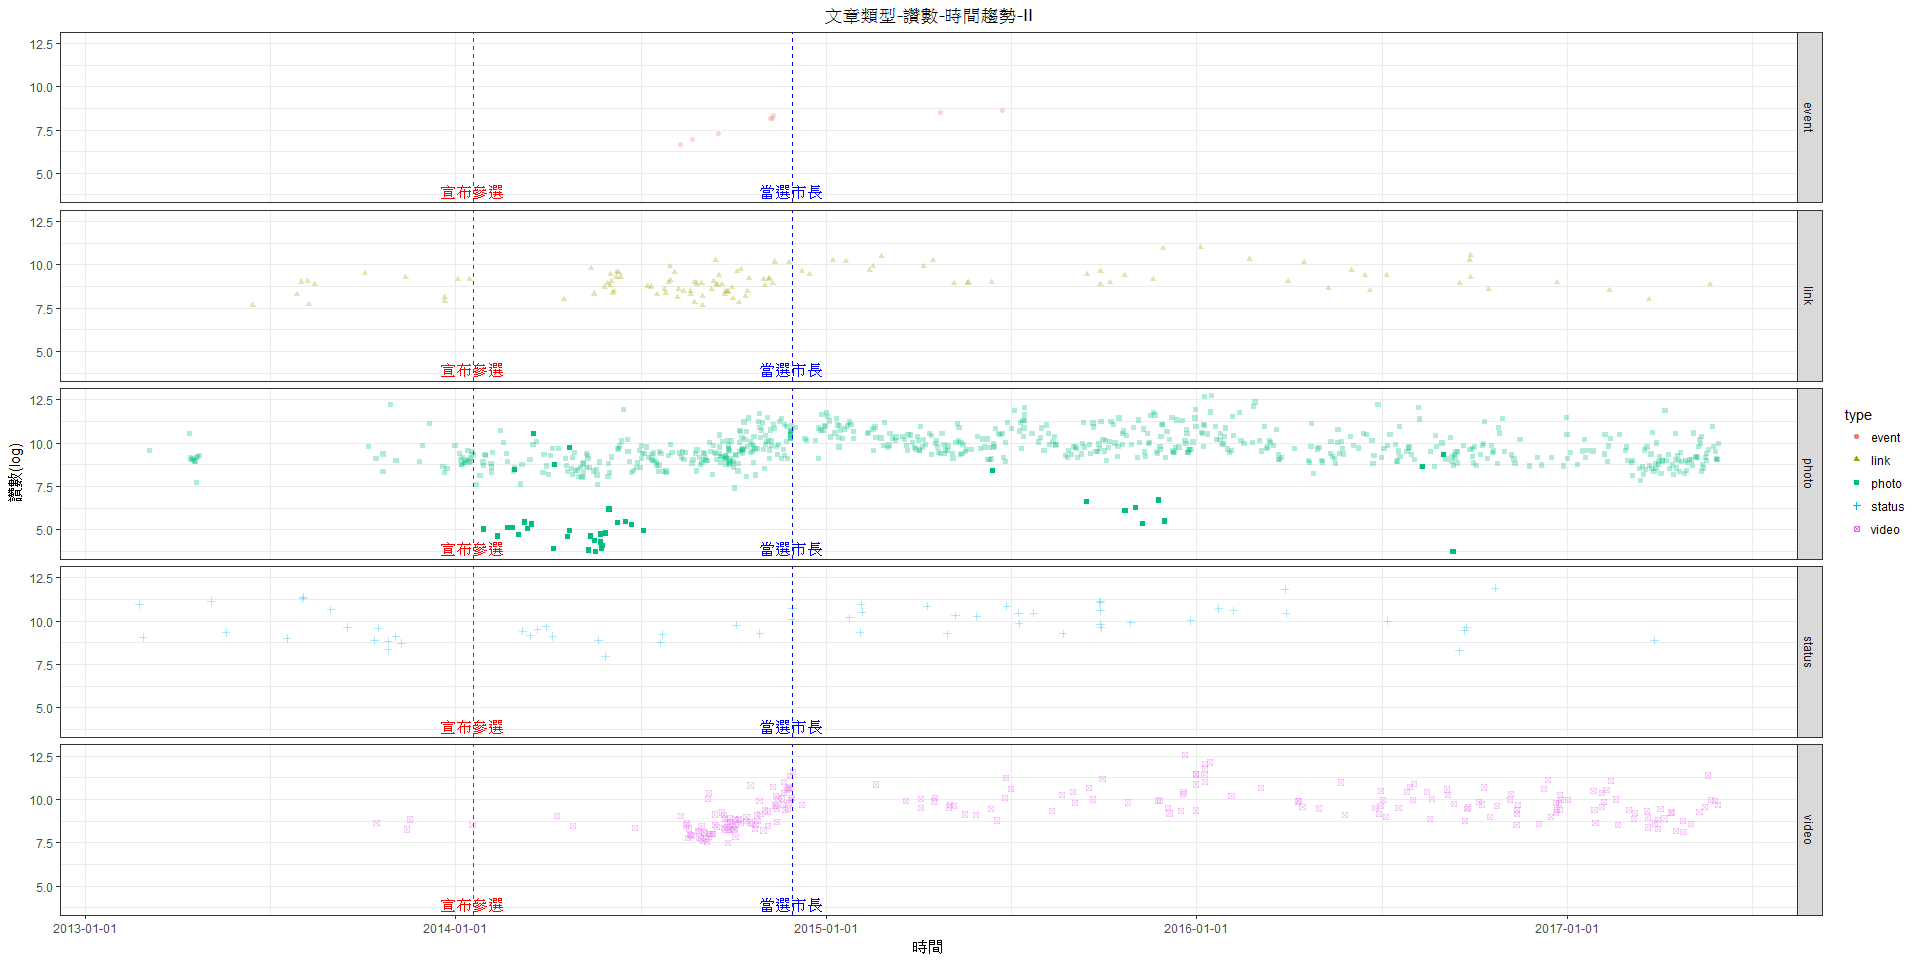
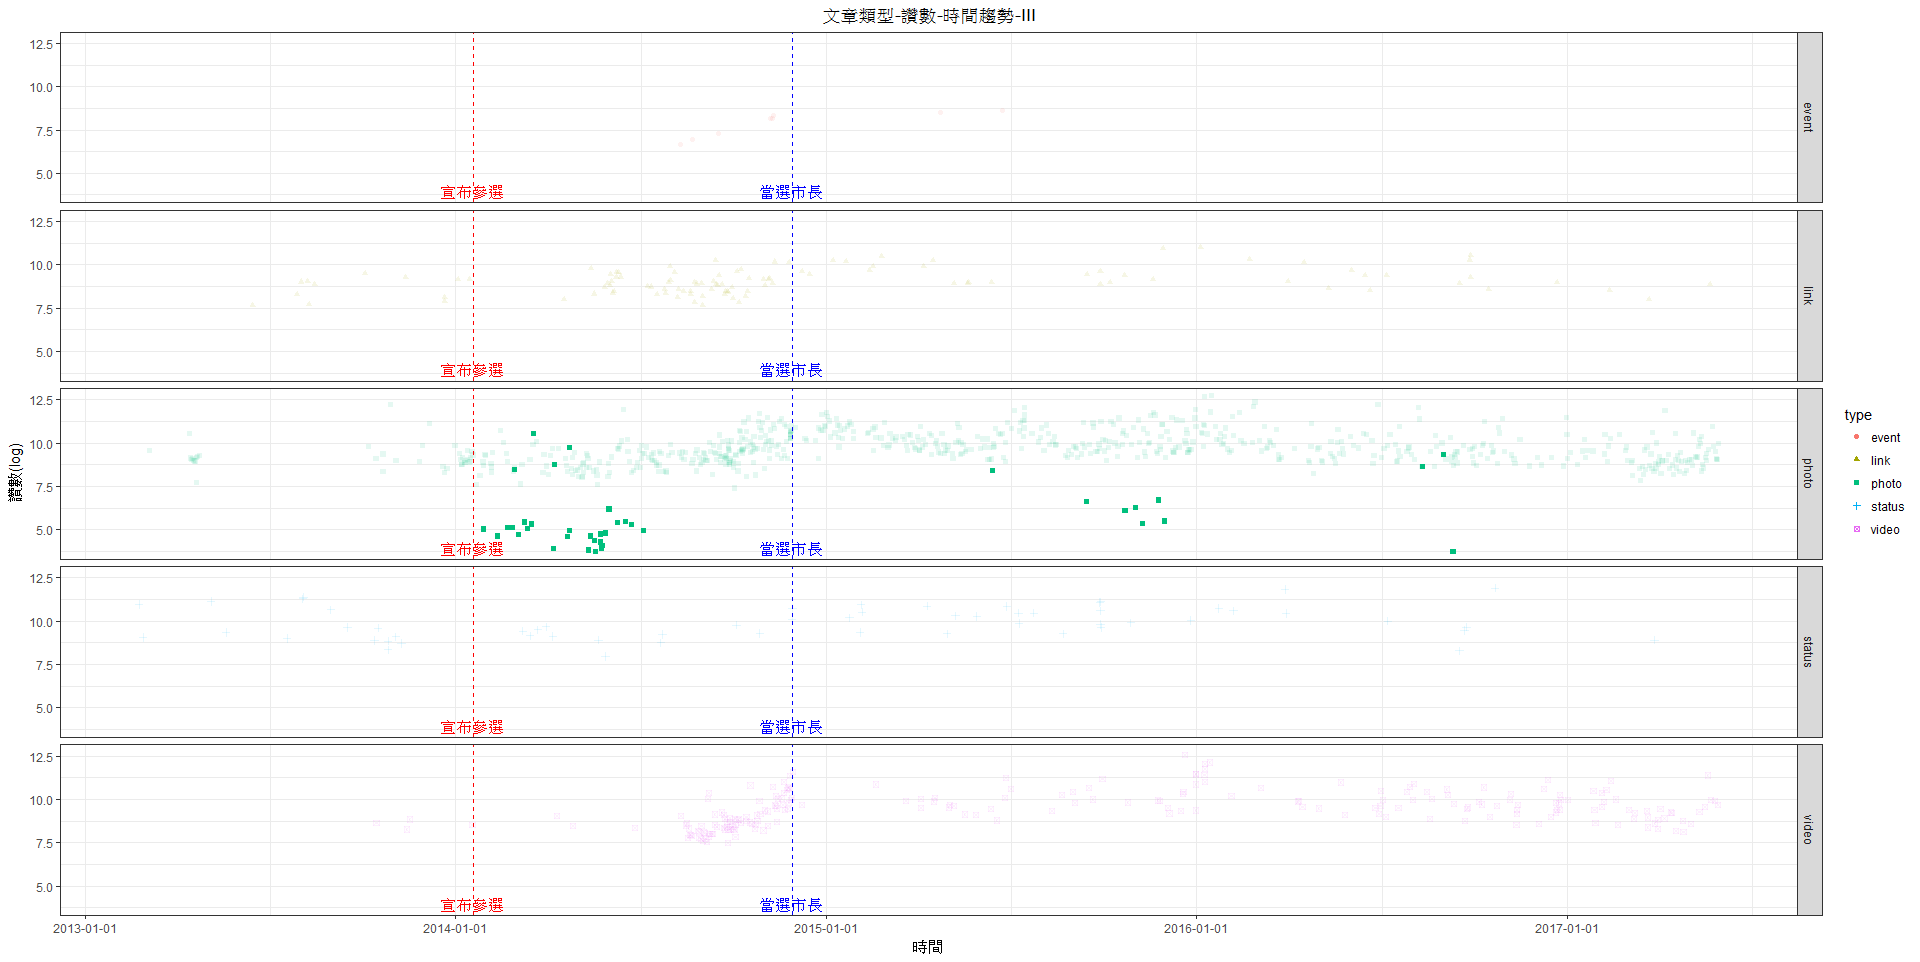
update

diff --git a/KoWJ_analysis.md b/KoWJ_analysis.md
@@ -11,8 +11,9 @@
 *Rfacebook, dplyr, lubridate, ggplot2, scales, gridExtra*  
 
 
-　　ex.若在擷取資料上有遇到困難無法處理或暫時不考慮申請FBAPI帳號的，可直接點選下面連結到data資料夾中下載檔案
-[資料夾連結點我](https://github.com/tan800630/FBapi_analysis/blob/master/data)
+　ex.若在擷取資料上有遇到困難無法處理或暫時不考慮申請FBAPI帳號的，可直接點選下面連結到data資料夾中下載檔案　　
+
+　[資料夾連結點我](https://github.com/tan800630/FBapi_analysis/blob/master/data)
 
 -------------------------------------------------
 -------------------------------------------------
@@ -105,13 +106,15 @@ hist(dat$shares_count,main="分享人數分配",xlab="分享人數")
 ![圖一](https://raw.githubusercontent.com/tan800630/FBapi_analysis/master/pic/hist_distribution.png)
 
 
-看起來不是非常開心，若後續想要對這些變項作圖的話多數狀況下會因為極端值拉大座標軸的最大值而不好做判斷   
+看起來不是非常開心，  
+若後續想要對這些變項作圖的話多數狀況下會因為極端值拉大座標軸的最大值而不好做判斷   
   
   
 
 ![圖二](https://raw.githubusercontent.com/tan800630/FBapi_analysis/master/pic/hist_dist_log.png)
  
-取log轉換後的資料分配如下圖，可愛多了 
+取log轉換後的資料分配如上圖，可愛多了  
+
 
 後續的資料呈現由於不希望數值都擠在一起，因此將採用log轉換數值，並在座標軸上特別做出標記，請各位特別注意。   
 整理完資料後，就可以來分析了。  
@@ -161,7 +164,7 @@ grid.arrange(plot1,plot2,plot3,nrow=1,ncol=3)
 ```
 
 ![圖四](https://raw.githubusercontent.com/tan800630/FBapi_analysis/master/pic/ggplot_like_comment_share_xyplot.png)
-*請放大服用*  
+*建議點選圖片放大服用*  
 
   
 上圖呈現按讚-回應-分享人數(log)兩兩配對的x-y plot，另外也以不同顏色和形狀表示不同的文章類型，可以看到按讚與回應的人數有非常高的線性正相關，另外分享與其他兩個指標也有正向的關聯，然而三張圖左下角都有一小群的離群值，在此先留意一下。  
@@ -171,12 +174,13 @@ grid.arrange(plot1,plot2,plot3,nrow=1,ncol=3)
 ## 時間趨勢 ##
 
 另外，我們當然也有興趣了解柯的人氣(受關注)狀況  
-*(按讚/回應/分享人次都是能夠反映受到關注的指標，由於按讚-回應-分享彼此之間有不錯的正相關，這邊即只取按讚人數作為反映受到關注的指標)*  
+(按讚/回應/分享人次都是能夠反映受到關注的指標，由於按讚-回應-分享彼此之間有不錯的正相關，這邊即只取按讚人數作為反映受到關注的指標)  
+
 然而除了直接計算粉絲專頁文章的平均按讚人數，我們更有興趣的是，**此指標是否隨著時間有明顯的上升/下降趨勢**  
 　  
   
 > 特別注意!! 此分析以粉絲專頁中的資料進行分析，與民調之資料來源(特定社群網頁v.s.電話抽樣)以及指標(按讚人數v.s.明確詢問"滿意度")皆有差異，在推論時要特別注意，盡量避免偏誤。   
-　  
+
 
 相關新聞(2016/09/01)：[TVBS：民調／市政爭議不斷！柯P滿意度僅剩36%](http://news.tvbs.com.tw/politics/671861)   
 相關連結：[台北市長柯文哲滿意度追蹤](http://tsjh301.blogspot.tw/2016/07/2016-taipei-mayor-satisfaction.html)  
@@ -199,7 +203,7 @@ scale_x_datetime(labels = date_format("%Y-%m-%d"))
 ```
 
 ![圖五](https://raw.githubusercontent.com/tan800630/FBapi_analysis/master/pic/ggplot_like_type_trend.png)
-*請放大服用*  
+*建議點選圖片放大服用*  
 
 
 上圖將不同類型的文章分成不同的圖，並且畫出2013年到今年5月份每一篇文的發文時間點與按讚人數(log)之間的關係，另外也將兩個比較特殊的時間點在圖上標記出來(年-月-日)，以供參考。  
@@ -212,7 +216,8 @@ scale_x_datetime(labels = date_format("%Y-%m-%d"))
 　  
  - 2015年底至2016年初則有另一個按讚人數的高峰，且是目前為止的最高點，除了本身人氣之外，這個時間點亦恰好為跨年(柯登台表演!?)、柯P一日北高雙城、以及總統大選前的黃金時刻，因此受到關注的程度非常高。  
 　  
-  
+　 
+　   
 接著試著來回答大家蠻有興趣的問題，柯P粉絲專頁的按讚人數是否有反映出民調提到的"滿意度直直落"狀況呢？為此我們必須先做一個非常簡單的假設(這邊的簡單其實代表考慮的因素太少了)  
 >前提假設：民眾對市長滿意度下降會將造成大家不願意給予市長文章讚/關注粉專動態，因而會反映在文章按讚人數上
 
@@ -221,13 +226,13 @@ scale_x_datetime(labels = date_format("%Y-%m-%d"))
 
 在此我選擇以最保守的方式下判斷：「因無明確證據顯示按讚人數有隨時間下降的明顯趨勢，予以不顯著處份」  
 　  
-然而同一張圖表不同人是否會有不同的判斷？我想答案是肯定的。這個部分留給大家來討論，在此打住。
+**然而同一張圖表不同人是否會有不同的判斷？我想答案是肯定的。這個部分留給大家來討論，在此先打住。**
 
 ----------  
 
 ## Information or Noise? ##
 
-在結束這個分析之前，我想請大家再看一下上面那張時間趨勢的圖，除了整體趨勢之外，有沒有發現*Photo*類型的文章中，有部分的文章按讚人數與其他Po文有明顯的差異呢？在這邊以log(按讚人數)=7作為切分點讓大家稍微看一下。  
+在結束這個分析之前，我想請大家再看一下上面那張時間趨勢的圖，除了整體趨勢之外，有沒有發現*Photo*類型的文章中，有部分的文章按讚人數與其他Po文有明顯的差異呢？在這邊挑出*Photo*類型文章並以log(按讚人數)=7作為切分點讓大家稍微看一下。  
 
 
 ```r
@@ -242,11 +247,12 @@ scale_x_datetime(labels = date_format("%Y-%m-%d"))
 ![圖六](https://raw.githubusercontent.com/tan800630/FBapi_analysis/master/pic/ggplot_photo_trend.png)
 
 
-在2014上半年與2015下半年分別有兩群較明顯的低讚數文章(*還記得上面曾看到的離群值嗎*)，這些文章特別的地方在哪裡(*是不是說了甚麼不該說的話*)，為什麼會那麼少人按讚呢？  
+在2014上半年與2015下半年分別有兩群較明顯的低讚數文章(*還記得上面曾看到的離群值嗎*)，這些文章特別的地方在哪裡，為什麼會那麼少人按讚呢？(*是不是說了甚麼不該說的話*)  
+
 以下將花一點時間去探索這個問題。  
   
 
-首先先將目標縮小到2014年的文章們，另外，手上有的指標只剩下文章內文與註記，在完全沒有頭緒的狀況下我們總是希望用簡單的指標就能找到原因，以下我將試著看看是否這些文章在**內文字數長度**上與其他文章有不同的狀況。  
+首先先將目標縮小到2014年的文章們，另外，手上有的指標只剩下文章內文與註記，在完全沒有頭緒的狀況下我們希望用簡單的指標就能找到原因，以下將試著看看是否這些文章在**內文字數長度**上與其他文章有不同的狀況。  
 **(也許因為文章字數不滿三行因此不受到大家重視?)**
 
 ```r
@@ -272,16 +278,18 @@ labs(x="日期",y="文章字數")
 ```
 ![圖七](https://raw.githubusercontent.com/tan800630/FBapi_analysis/master/pic/nchar_like_xyplot.png)
 ![圖八](https://raw.githubusercontent.com/tan800630/FBapi_analysis/master/pic/nchar_date_xyplot.png)
+  
 
 
 雖然按讚數較低的文章們在字數上真的都比較少，然而沒辦法純粹使用文章字數就可以做區辨(或是預測)，肯定仍然有甚麼特殊之處。然而除非我們進行文字探勘，否則大致上已經沒有更多資訊可以讓我們做判斷了。  
-　  
+
+
 ----------
 **因此，我們只能用目前最高端的智能工具，也就是我們自己，來處理這件事情。**  
 
 　  
 
-後續直接觀察了文章內文，結果發現的確都有相同之處，這些文章都是創建相簿的動態，而創建相簿的訊息將標記在註記中。  
+後續**直接觀察了文章內文**，結果發現的確都有相同之處，這些文章都是創建相簿的動態，而創建相簿的訊息將標記在註記中。  
   
 下圖將創建相簿的文章以較深的顏色標記。  
 
@@ -302,23 +310,21 @@ geom_vline(aes(xintercept=as.numeric(as.POSIXct("2014-01-19"))),colour="red",lin
 geom_vline(aes(xintercept=as.numeric(as.POSIXct("2014-11-29"))),colour="blue",linetype="dashed")+
 annotate("text",x=as.POSIXct("2014-01-19"),y=4,label="宣布參選",colour="red")+
 annotate("text",x=as.POSIXct("2014-11-29"),y=4,label="當選市長",colour="blue")+
-labs(title="文章類型-讚數-時間趨勢-II",x="時間",y="讚數(log)")+
+labs(title="文章類型-讚數-時間趨勢-III",x="時間",y="讚數(log)")+
 facet_grid(type~.)+theme_bw()+theme(plot.title = element_text(hjust = 0.5))+
 scale_x_datetime(labels = date_format("%Y-%m-%d"))+
-scale_alpha_discrete(range=c(0.3,1))+guides(alpha=FALSE)
+scale_alpha_discrete(range=c(0.1,1))+guides(alpha=FALSE)
 ```
 
 ![圖九](https://raw.githubusercontent.com/tan800630/FBapi_analysis/master/pic/ggplot_like_type_trend3.png)
-*請放大服用*  
+*建議點選圖片放大服用*  
 
 >後續發現是Rfacebook套件抓取資料時，在"創造相簿"的文章中會抓到第一張相片而非文章的按讚資料  
 *相關說明參照ptt R_language版 https://www.ptt.cc/bbs/R_Language/M.1497333230.A.A9A.html*  
 
 
 
-很可惜地我們這次看到的狀況並非是有意義的訊息，而是套件使用上的一些誤差。
-
-大部分狀況下會低估文章的按讚人數(以及回應人數)，從圖中可以看到之前提到的幾則按讚人數較低的文章都屬於這一類，之後進行其他分析時也須特別注意這類文章並將其作處理以免造成誤差。雖這不能提供我們了解更多柯文哲粉絲專頁的訊息，但至少可以使Rfacebook的使用者甚至是開發者注意到這個狀況。
+很可惜地我們這次看到的狀況主要為套件上的一些誤差，而不能提供我們關於按讚人數的訊息。然而從這幾篇文章的分布我們可以發現，多數的相簿建立時間點都落在2014上半年，主要皆為柯在參選時的行程活動，然而到2014年中後期以後則改為大量的影片文章，顯示了此粉絲專頁在經營曝光方式上的改變。
 
 ----------  
 
@@ -328,7 +334,7 @@ scale_alpha_discrete(range=c(0.3,1))+guides(alpha=FALSE)
 這部分的分析目前到此告一段落，在本次的分析中我們以Rfacebook擷取了柯文哲粉絲專頁的每一則文章以及其相關指標(讚、回應、分享)，並且試圖從簡單的資料中研究此粉絲專頁的人氣趨勢與發文特性(但避開了text mining的部分)，後續應用也可以將這樣的分析方式應用到不同的粉絲專頁當中，以做簡單的比較。  
 
 
-以Rfacebook擷取的頁面資料除了上述的整理作圖以外，另一個賣點就是文字探勘了，下一篇文章將試著以此粉絲專頁的文章內容進行簡單的文字探勘。但本人對文字探勘領域研究不深，因此主要以網路上的資源依樣畫葫蘆做呈現。  
+以Rfacebook擷取的頁面資料除了上述的整理作圖以外，另一個賣點就是文字探勘，下一篇文章將試著以此粉絲專頁的文章內容進行簡單的文字探勘分析。但因作者對於此領域研究不深，因此主要將以網路上的資源依樣畫葫蘆做呈現。  
 
 若對此篇文章有任何建議或回饋，非常大家以任何方式留言給我進行交流
 E-mail: tan800630@gmail.com
